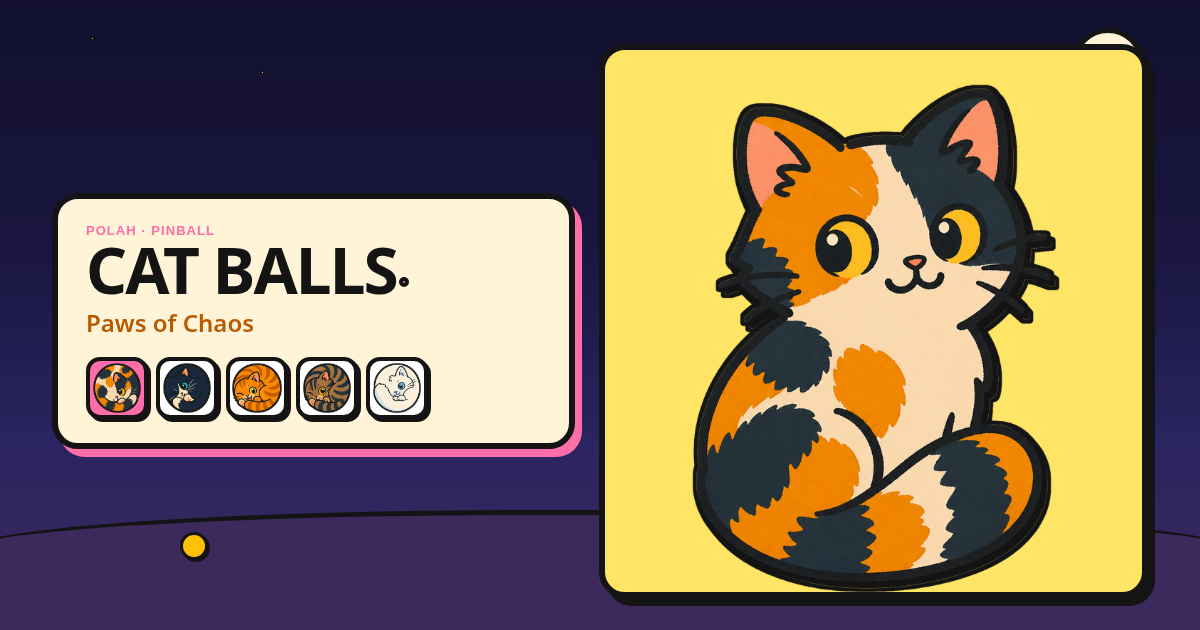
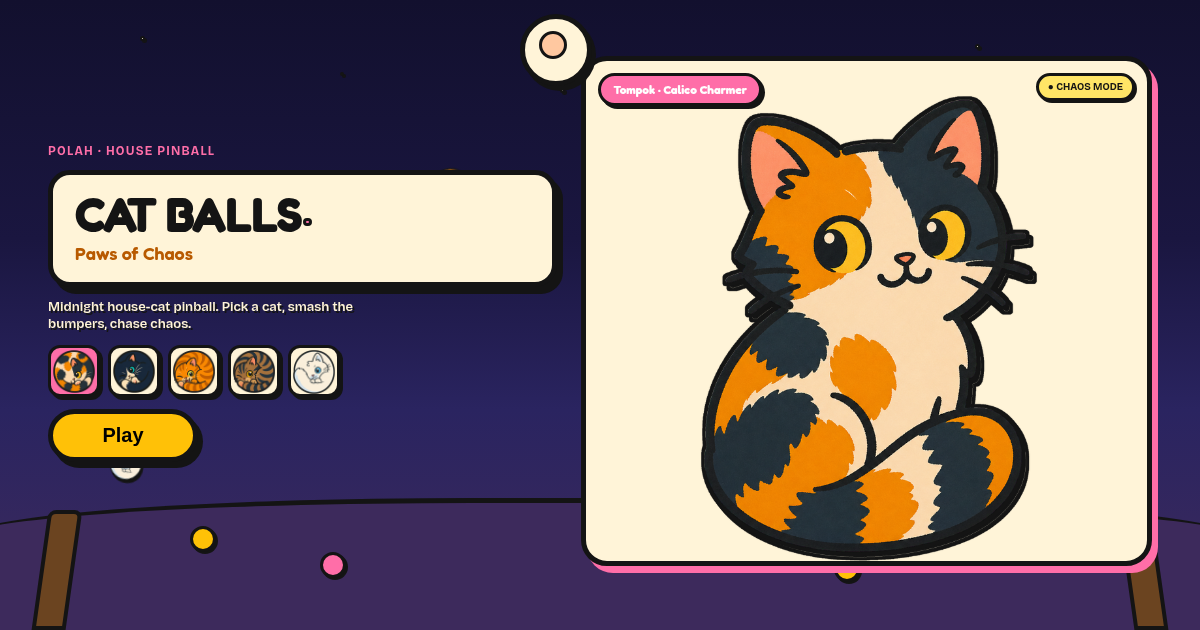
Use Desktop Mock A Night for the Cat Balls homepage card. (#3)

diff --git a/src/data/projects.ts b/src/data/projects.ts
@@ -64,7 +64,7 @@ export const projects: Project[] = [
     featured: true,
     image: "/projects/balls.png",
     imageAlt:
-      "CAT BALLS night art: cream title card, five cat-ball icons, and a calico cat on a yellow panel under a midnight sky.",
+      "CAT BALLS Desktop Mock A Night: cream sit-hero Tompok card, midnight purple sky, and pinball table cues.",
     cta: "Play →",
     available: true,
     href: "https://polah.app/balls/",
